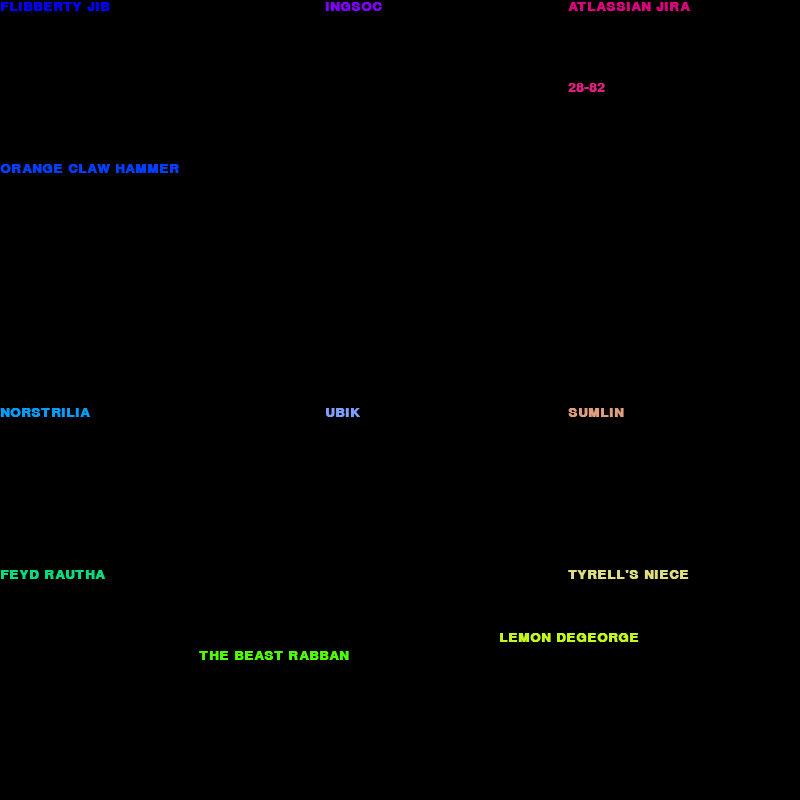
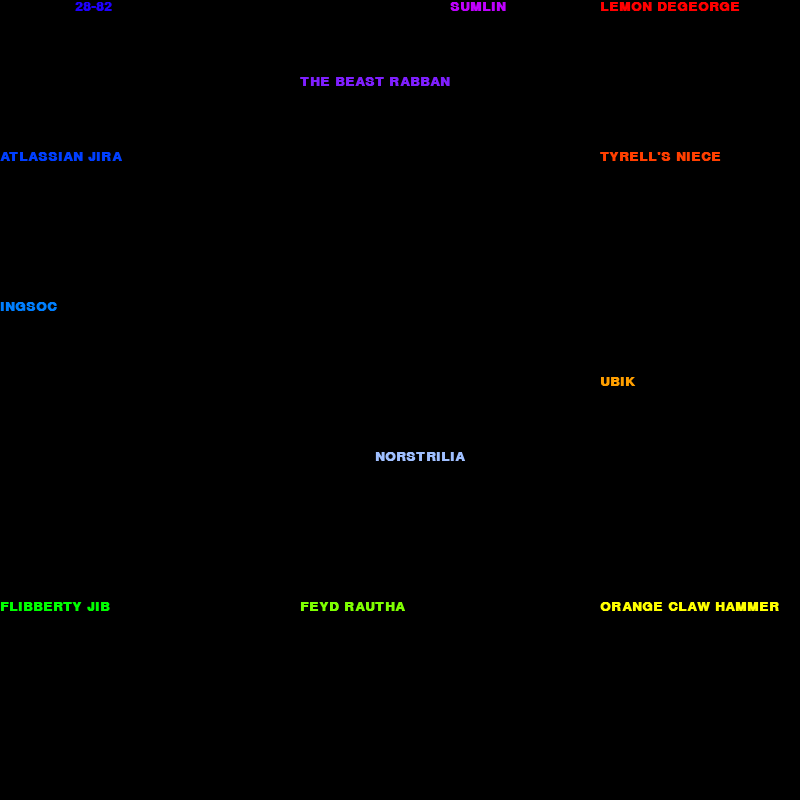
Added readme.txt

diff --git a/main.py b/main.py
@@ -4,7 +4,7 @@ from data import COMBINATIONS
 
 MAX_DIVISIONS, DIVISION_BASE = 4, 2
 OUTFILE = "double.png"
-GRAPH_WIDTH, GRAPH_HEIGHT, OFFSET, GRAPH_FONT, FONT_SIZE = 800, 800, 150, 'GOTHIC.ttf', 20
+GRAPH_WIDTH, GRAPH_HEIGHT, OFFSET, GRAPH_FONT, FONT_SIZE = 800, 800, 200, 'GOTHIC.ttf', 20
 MIN_INITIAL_TRIALS_EXPONENT = 4
 BLUEBASE, MIN_COLOUR_COMPONENT = 1023.0, 192.0
 BIG_FLOAT = float('inf')
@@ -37,15 +37,13 @@ def initialGuess():
     printIfYappy("\n".join([str(bestGuess), str(leastError), '']))
     return leastError, bestGuess
 
-def drawGraph(surface, guess, width, height, blueFactor):
-    surface.fill((0, 0, 0), )
-    for key in guess.keys():
-        x, y = guess[key]
-        surface.blit(nameFont.render(key, True, getColour(blueFactor, x, y)), (int(width * x), int(height * y)))
+def drawGraph(surf, guess, wide, high, blue, font):
+    surf.fill((0, 0, 0), )
+    [surf.blit(font.render(k, True, rgb(blue, x, y)), (int(wide * x), int(high * y))) for k, (x, y) in guess.items()]
     pygame.display.flip()
-    pygame.image.save(surface, OUTFILE)
+    pygame.image.save(surf, OUTFILE)
 
-def getColour(blueFactor, x, y):
+def rgb(blueFactor, x, y):
     red, green = 255.0 * x, 255.0 * y
     if red < MIN_COLOUR_COMPONENT and green < MIN_COLOUR_COMPONENT:
         return int(red), int(green), 255
@@ -61,7 +59,7 @@ if __name__ == '__main__':
     for attempt in range(MAX_DIVISIONS):
         divisions *= DIVISION_BASE
         grain = 1.0 / divisions
-        positions, progress = [division * grain for division in range(0, divisions)], True
+        positions, progress = [division * grain for division in range(divisions+1)], True
         printIfYappy(divisions, "DIVISIONS")
         while progress:
             bestKeys, progress = list(best.keys()), False
@@ -73,4 +71,4 @@ if __name__ == '__main__':
                                 for y2 in positions:
                                     error, progress = test((x1, y1), (x2, y2), k1, k2, bestKeys, best, error, progress)
             printIfYappy(", ".join([str(error), str(best)]))
-            drawGraph(screen, best, graphWidthLessOffset, graphHeightLessOffset, blueCoeff)
+            drawGraph(screen, best, graphWidthLessOffset, graphHeightLessOffset, blueCoeff, nameFont)
